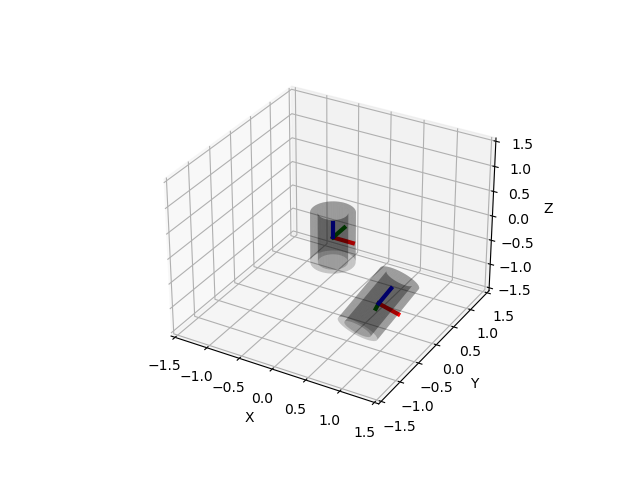
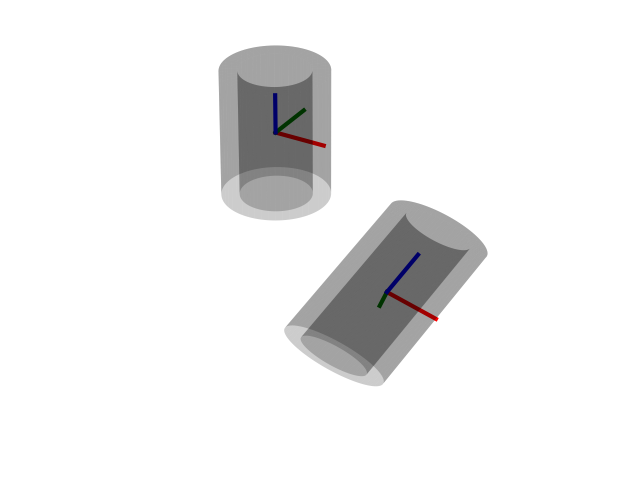
Clean up example with cylinders

diff --git a/examples/plot_cylinder.py b/examples/plot_cylinder.py
@@ -5,21 +5,28 @@ Plot Transformed Cylinders
 
 Plots surfaces of transformed cylindrical shells.
 """
+print(__doc__)
+
+
 import numpy as np
 import matplotlib.pyplot as plt
 from pytransform3d.transformations import transform_from, plot_transform
 from pytransform3d.rotations import random_axis_angle, matrix_from_axis_angle
-from pytransform3d.plot_utils import plot_cylinder
+from pytransform3d.plot_utils import plot_cylinder, remove_frame
 
 
 random_state = np.random.RandomState(42)
 A2B = transform_from(
     R=matrix_from_axis_angle(random_axis_angle(random_state)),
     p=random_state.randn(3))
-ax = plot_cylinder(length=1.0, radius=0.3, thickness=0.1, ax_s=1.5,
+ax = plot_cylinder(length=1.0, radius=0.3, thickness=0.1,
                    wireframe=False, alpha=0.2)
 plot_transform(ax=ax, A2B=np.eye(4), s=0.3, lw=3)
 plot_cylinder(ax=ax, length=1.0, radius=0.3, thickness=0.1, A2B=A2B,
               wireframe=False, alpha=0.2)
 plot_transform(ax=ax, A2B=A2B, s=0.3, lw=3)
+remove_frame(ax)
+ax.set_xlim((0, 1.5))
+ax.set_ylim((-1.5, 0))
+ax.set_zlim((-0.8, 0.7))
 plt.show()
